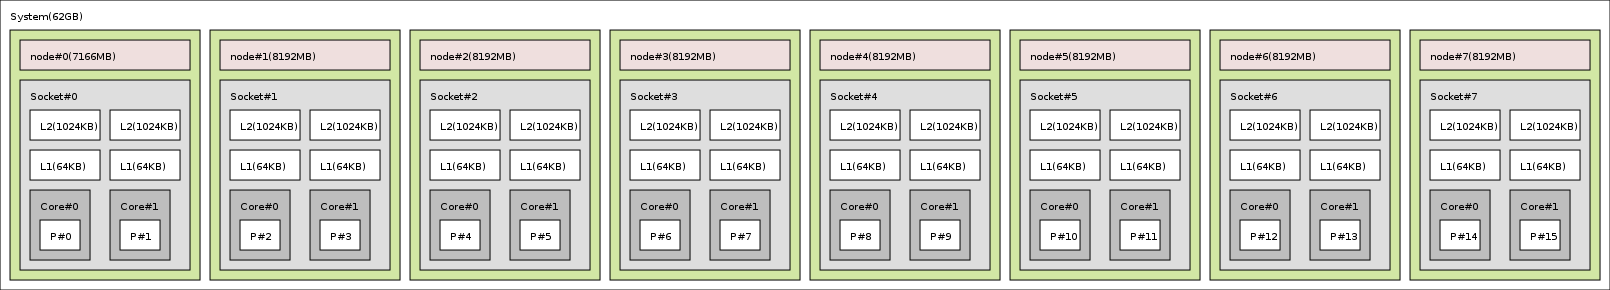
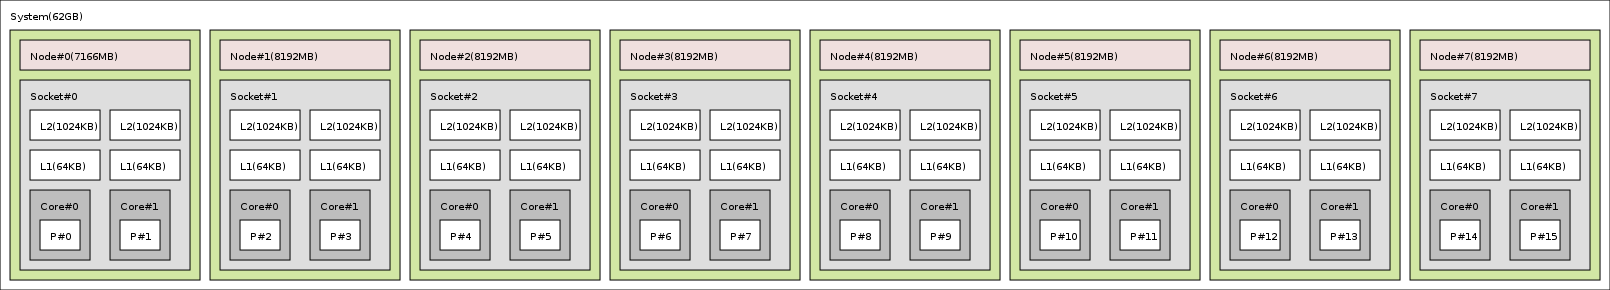
add upper case to node to uniformize with other...
add upper case to node to uniformize with other object types

This commit was SVN r750.

diff --git a/src/traversal.c b/src/traversal.c
@@ -237,7 +237,7 @@ topo_obj_snprintf(char *string, size_t size,
 		      topo_memory_size_printf_unit(l->attr->machine.memory_kB));
   case TOPO_OBJ_NODE:
     return snprintf(string, size, "%s%s(%lu%s)",
-		    verbose ? topo_obj_type_string(type) : "node", os_index,
+		    verbose ? topo_obj_type_string(type) : "Node", os_index,
 		    topo_memory_size_printf_value(l->attr->node.memory_kB),
 		    topo_memory_size_printf_unit(l->attr->node.memory_kB));
   case TOPO_OBJ_CACHE:
